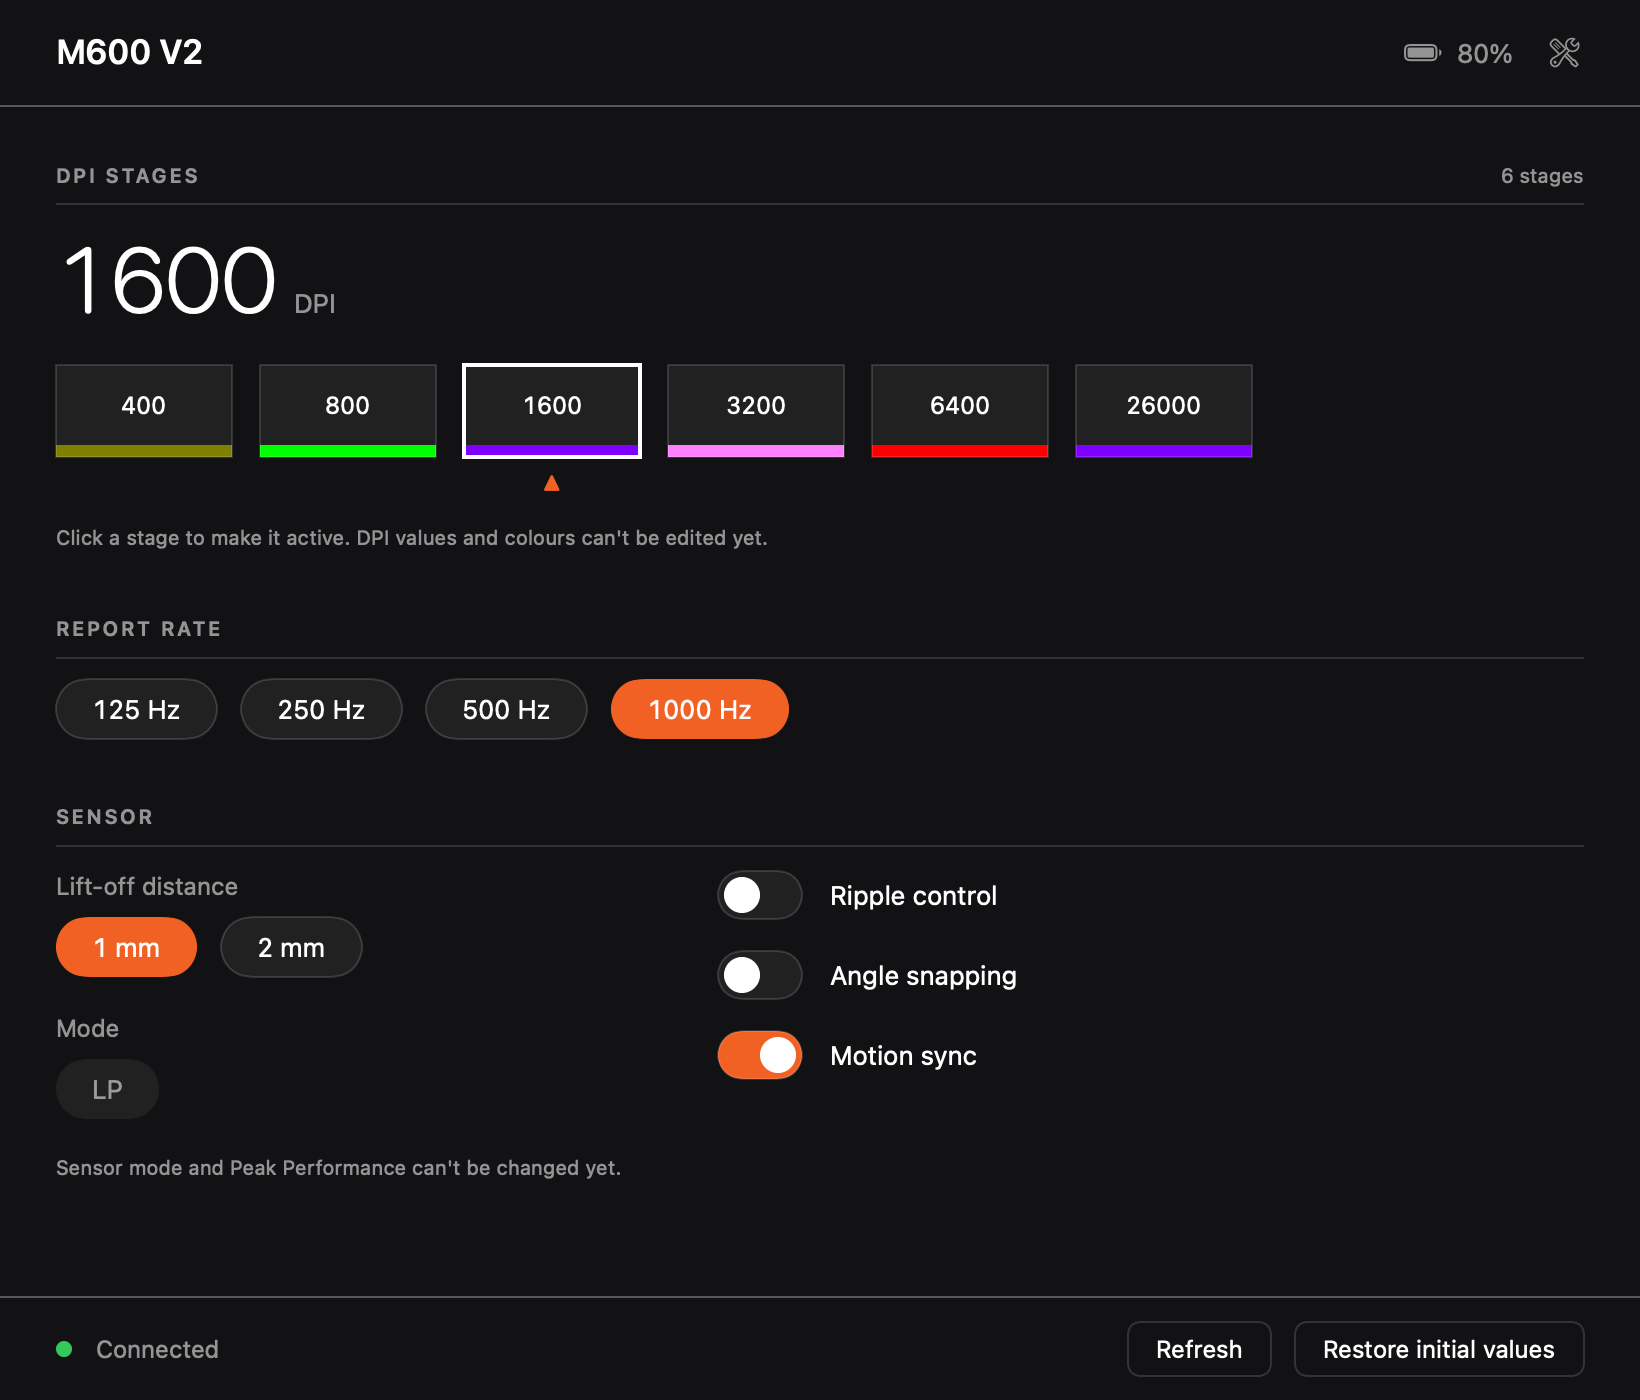
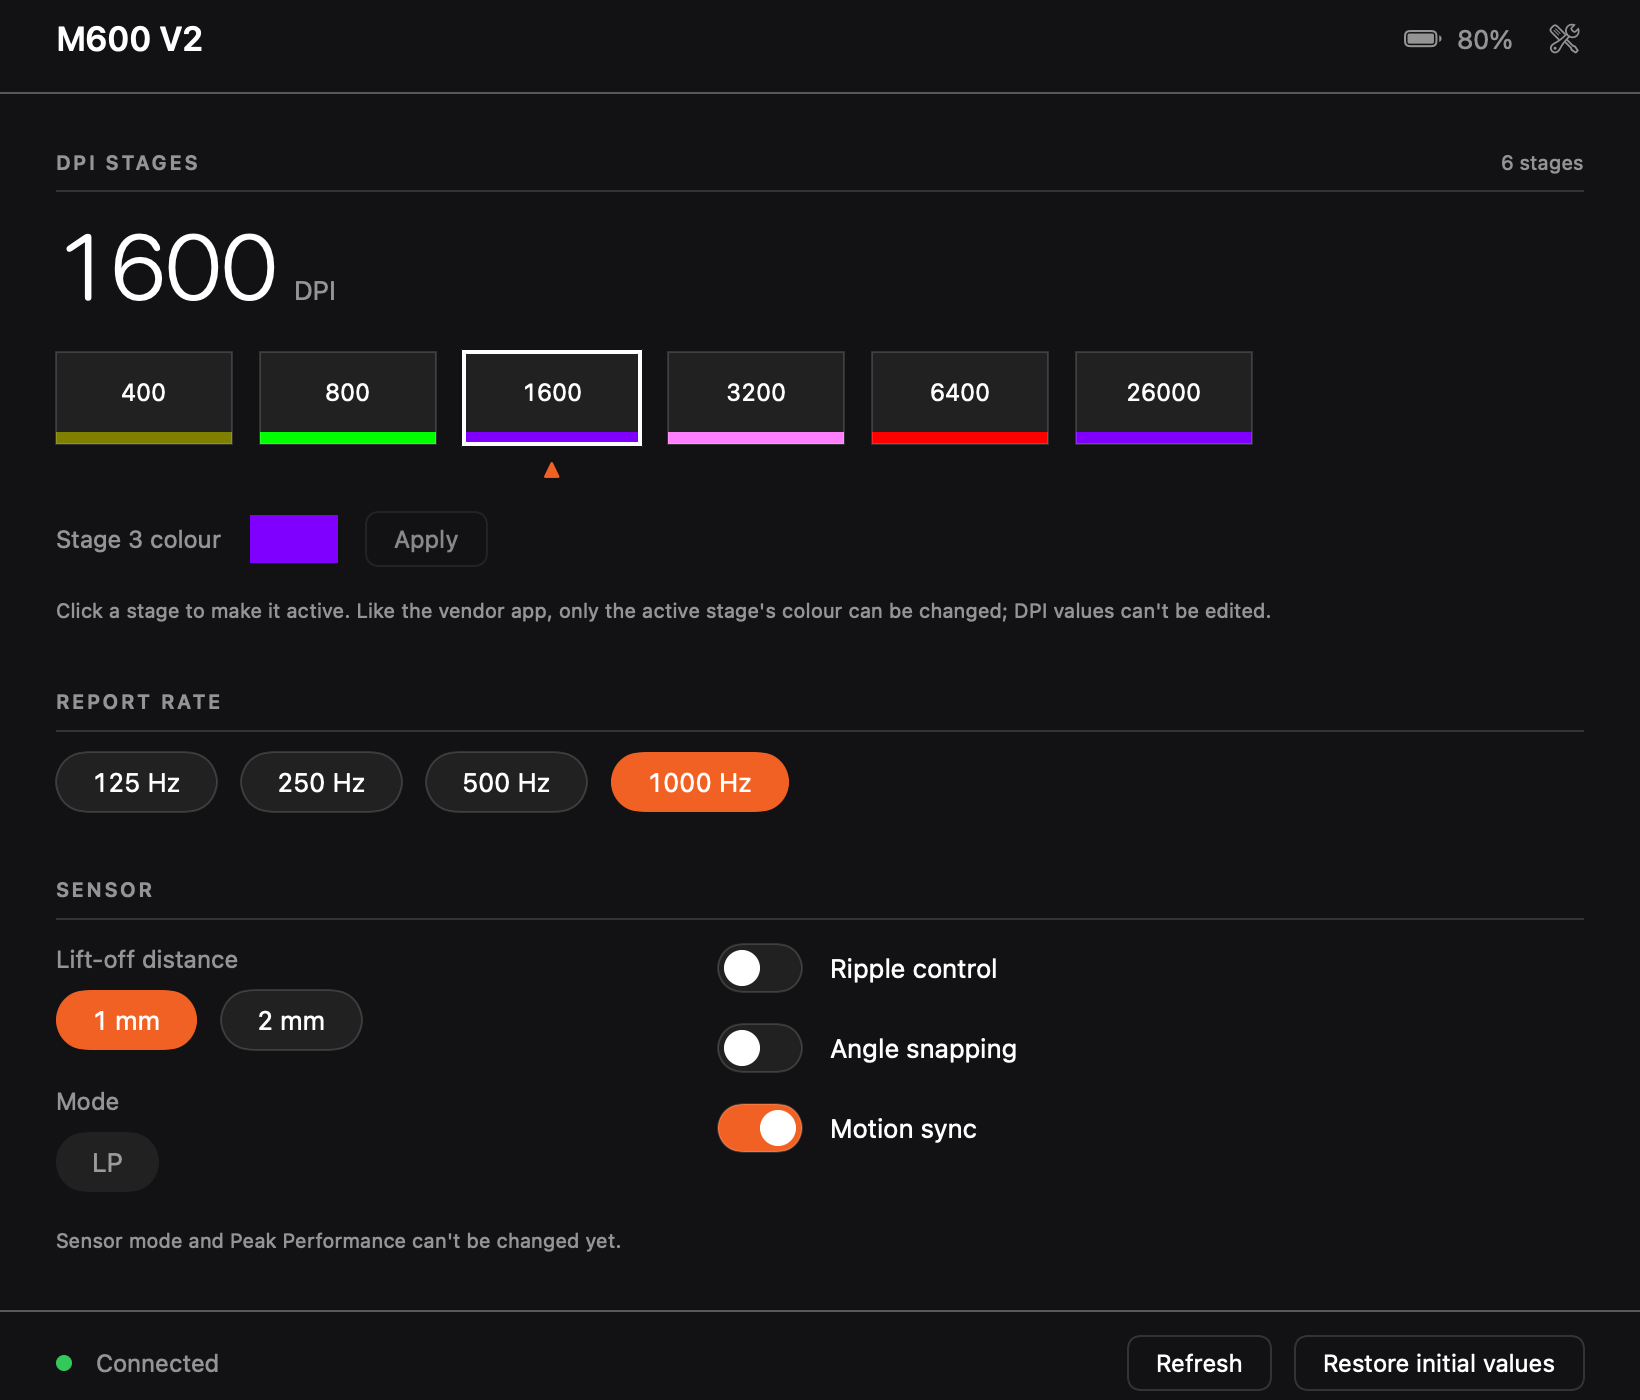
Add DPI stage colour writing for the active stage
Verified write (echo plus read-back) to the colour entry at 0x2C + 4*stage,
a colour picker with Apply in the UI, and colours included in Restore initial
values. Confirmed on hardware and in the vendor app.

diff --git a/Sources/OpenMouseApp/AppModel.swift b/Sources/OpenMouseApp/AppModel.swift
@@ -90,6 +90,7 @@ final class AppModel: ObservableObject {
     @Published var status = "No mouse found. Plug in the dongle."
     /// Values at the first successful load after opening, for "Restore initial values".
     private var initialSettings: SettingsSnapshot?
+    private var initialColors: [DPIColor] = []
 
     private func loadSettings() async throws -> SettingsSnapshot? {
         var v: [MouseSetting: UInt8] = [:]
@@ -113,7 +114,7 @@ final class AppModel: ObservableObject {
                 settings = try await loadSettings()
                 stages = try await device.readStages()
                 battery = try await device.readBattery()
-                if initialSettings == nil { initialSettings = settings }
+                if initialSettings == nil { initialSettings = settings; initialColors = stages.map(\.color) }
                 status = settings == nil ? "Unexpected reply. Try Refresh." : "Connected"
             } catch {
                 append("settings read failed: \(error)")
@@ -135,6 +136,27 @@ final class AppModel: ObservableObject {
         }
     }
 
+    /// Writes one stage's colour, then checks the echo and reads the stages back.
+    func changeColor(stage: Int, to color: DPIColor) {
+        guard !busy, stages.indices.contains(stage), stages[stage].color != color else { return }
+        busy = true
+        Task {
+            defer { busy = false }
+            do {
+                try await writeColorAndVerify(stage, color)
+                stages = try await device.readStages()
+            } catch { append("stage colour write failed: \(error) (is the mouse awake? move it)") }
+        }
+    }
+
+    private func writeColorAndVerify(_ stage: Int, _ color: DPIColor) async throws {
+        append("WRITE stage \(stage + 1) colour = \(String(format: "%02X%02X%02X", color.r, color.g, color.b))")
+        let echoed = try await device.writeStageColor(stage: stage, color)
+        let back = try await device.readStages()[stage].color
+        append("stage \(stage + 1) colour: echo \(echoed ? "ok" : "MISMATCH")"
+               + (echoed && back == color ? "  -> verified" : "  -> NOT verified"))
+    }
+
     /// Writes back every setting that differs from the values first read after opening.
     func restoreInitial() {
         guard !busy, let target = initialSettings, let now = settings else { return }
@@ -142,6 +164,9 @@ final class AppModel: ObservableObject {
         Task {
             defer { busy = false }
             do {
+                for (i, wanted) in initialColors.enumerated() where stages.indices.contains(i) && stages[i].color != wanted {
+                    try await writeColorAndVerify(i, wanted)
+                }
                 let pairs: [(MouseSetting, String, UInt8, UInt8)] = [
                     (.reportRate, "report rate", now.reportRate, target.reportRate),
                     (.currentDPIIndex, "DPI stage", now.dpiStage, target.dpiStage),
@@ -153,6 +178,7 @@ final class AppModel: ObservableObject {
                     try await writeAndVerify(setting, wanted, name: name)
                 }
                 settings = try await loadSettings()
+                stages = try await device.readStages()
             } catch { append("restore failed: \(error)") }
         }
     }

diff --git a/Sources/OpenMouseApp/MouseView.swift b/Sources/OpenMouseApp/MouseView.swift
@@ -17,6 +17,10 @@ struct MouseView: View {
     /// False only for the preview image: `ImageRenderer` cannot draw a ScrollView.
     var scrollable = true
 
+    /// Colour being picked for the active stage; written only when Apply is pressed, so dragging
+    /// in the picker doesn't send a flash write per frame.
+    @State private var pickedColor = Color.white
+
     private var enabled: Bool { model.isOpen && model.settings != nil && !model.busy }
 
     var body: some View {
@@ -99,8 +103,45 @@ struct MouseView: View {
                 }
                 if model.stages.isEmpty { Text("Waiting for the mouse…").foregroundStyle(Theme.dim) }
             }
-            Text("Click a stage to make it active. DPI values and colours can't be edited yet.")
+            colorRow
+            Text("Click a stage to make it active. Like the vendor app, only the active stage's colour can be changed; DPI values can't be edited.")
                 .font(.caption).foregroundStyle(Theme.dim)
+        }
+    }
+
+    private var activeStage: Int? {
+        guard let s = model.settings, Int(s.dpiStage) < model.stages.count else { return nil }
+        return Int(s.dpiStage)
+    }
+
+    private static func swiftUIColor(_ c: DPIColor) -> Color {
+        Color(red: Double(c.r) / 255, green: Double(c.g) / 255, blue: Double(c.b) / 255)
+    }
+
+    private static func dpiColor(_ color: Color) -> DPIColor {
+        let ns = NSColor(color).usingColorSpace(.sRGB) ?? .white
+        func byte(_ v: CGFloat) -> UInt8 { UInt8(max(0, min(255, (v * 255).rounded()))) }
+        return DPIColor(r: byte(ns.redComponent), g: byte(ns.greenComponent), b: byte(ns.blueComponent))
+    }
+
+    @ViewBuilder private var colorRow: some View {
+        if let stage = activeStage {
+            let current = model.stages[stage].color
+            HStack(spacing: 14) {
+                Text("Stage \(stage + 1) colour").font(.callout).foregroundStyle(Theme.dim)
+                if scrollable {
+                    ColorPicker("", selection: $pickedColor, supportsOpacity: false)
+                        .labelsHidden().disabled(!enabled)
+                } else {
+                    // ImageRenderer can't draw a ColorPicker, so the preview image shows a swatch.
+                    Rectangle().fill(Self.swiftUIColor(current)).frame(width: 44, height: 24)
+                }
+                textButton("Apply") { model.changeColor(stage: stage, to: Self.dpiColor(pickedColor)) }
+                    .disabled(!enabled || Self.dpiColor(pickedColor) == current)
+            }
+            .onAppear { pickedColor = Self.swiftUIColor(current) }
+            .onChange(of: stage) { _ in pickedColor = Self.swiftUIColor(model.stages[stage].color) }
+            .onChange(of: current) { pickedColor = Self.swiftUIColor($0) }
         }
     }
 

diff --git a/Tests/OpenMouseKitTests/ProtocolTests.swift b/Tests/OpenMouseKitTests/ProtocolTests.swift
@@ -95,6 +95,14 @@ final class ProtocolTests: XCTestCase {
 
     func testStageAddressesAndColorWrites() {
         XCTAssertEqual((0..<6).map { StageTable.colorAddress(stage: $0) }, [0x2C, 0x30, 0x34, 0x38, 0x3C, 0x40])
+
+        // Stage colour write: 08 07 00 00 <addr> 04 R G B chk, frame checksum 0x55 - sum.
+        let frame = Protocol.setStageColor(stage: 1, color: DPIColor(r: 0x80, g: 0x80, b: 0x00))
+        XCTAssertEqual(Array(frame[0..<10]), [0x08, 0x07, 0x00, 0x00, 0x30, 0x04, 0x80, 0x80, 0x00, 0x55])
+        XCTAssertEqual(frame.count, 17)
+        XCTAssertEqual(frame[16], Protocol.checksum(frame[0..<16]))
+        // The entry written parses back to the same colour.
+        XCTAssertEqual(DPIColor.parse(Array(frame[6..<10])), DPIColor(r: 0x80, g: 0x80, b: 0x00))
         XCTAssertEqual(StageTable.dpiAddress(stage: 5), 0x20)
         // Colour writes seen in the capture: stage 2 -> 80 00 FF d6
         XCTAssertEqual(DPIColor.parse([0x80, 0x00, 0xFF, 0xD6]), DPIColor(r: 0x80, g: 0x00, b: 0xFF))

diff --git a/Sources/OpenMouseKit/Protocol.swift b/Sources/OpenMouseKit/Protocol.swift
@@ -53,6 +53,14 @@ public enum Protocol {
         flashWrite(address: address, data: [value, checksum([value])])
     }
 
+    /// Colour of one DPI stage: `R G B chk` at `StageTable.colorAddress`. This is the only
+    /// multi-byte write the app sends; the address range is fixed to the six colour entries.
+    public static func setStageColor(stage: Int, color: DPIColor) -> [UInt8] {
+        precondition((0..<StageTable.stageCount).contains(stage), "stage out of range")
+        let rgb = [color.r, color.g, color.b]
+        return flashWrite(address: StageTable.colorAddress(stage: stage), data: rgb + [checksum(rgb)])
+    }
+
     /// Report rate write: 2 bytes at 0x0000, the one-hot value then its checksum.
     public static func setReportRate(_ value: UInt8) -> [UInt8] {
         writeValue(address: 0x0000, value: value)

diff --git a/Sources/OpenMouseKit/MouseDevice.swift b/Sources/OpenMouseKit/MouseDevice.swift
@@ -102,6 +102,13 @@ public final class MouseDevice {
         return try await exchange(frame) == frame
     }
 
+    /// Writes one stage's colour and returns true if the mouse echoed the frame unchanged.
+    public func writeStageColor(stage: Int, _ color: DPIColor) async throws -> Bool {
+        guard (0..<StageTable.stageCount).contains(stage) else { throw HIDTransportError.valueRejected }
+        let frame = Protocol.setStageColor(stage: stage, color: color)
+        return try await exchange(frame) == frame
+    }
+
     /// Bytes of a flash range, from the data field of each reply.
     public func readFlash(address: UInt16, length: Int) async throws -> [UInt8] {
         try await readFlashRaw(address: address, length: length).flatMap { $0[6..<(6 + Int($0[5]))] }

diff --git a/README.md b/README.md
@@ -14,7 +14,7 @@ and the wired mouse use the same vendor ID and are matched, but are untested.
 
 | Feature | Read | Write |
 |---|---|---|
-| DPI stages (value, colour, active stage) | yes | active stage only |
+| DPI stages (value, colour, active stage) | yes | active stage and its colour (the vendor app can't edit stage values either) |
 | Report rate 125 / 250 / 500 / 1000 Hz | yes | yes |
 | Lift-off distance 1 / 2 mm | yes | yes |
 | Ripple control, angle snapping, motion sync | yes | yes |
